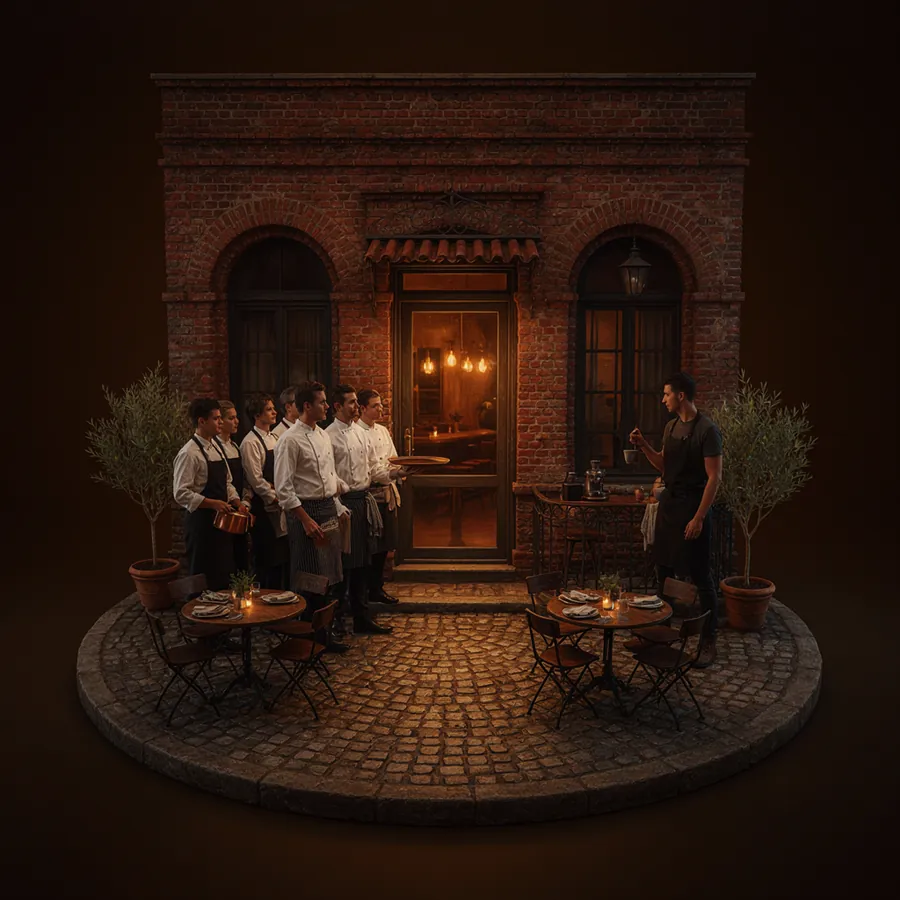
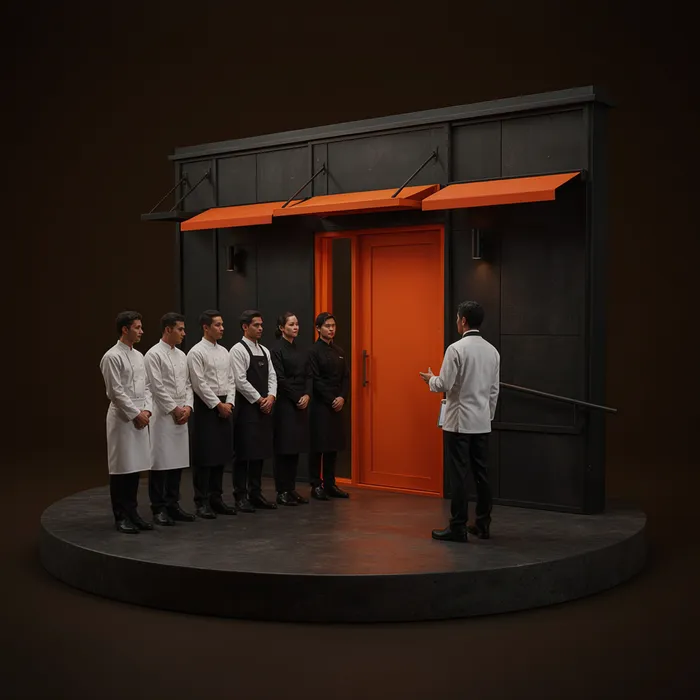
Фірмові мініатюри на сайті: етапи, формати й свій заклад

diff --git a/index.html b/index.html
@@ -24,7 +24,7 @@
 <link rel="preconnect" href="https://fonts.googleapis.com">
 <link rel="preconnect" href="https://fonts.gstatic.com" crossorigin>
 <link href="https://fonts.googleapis.com/css2?family=Unbounded:wght@500..800&family=Onest:wght@400..800&family=Marck+Script&display=swap" rel="stylesheet">
-<link rel="stylesheet" href="css/main.css?v=202611151837">
+<link rel="stylesheet" href="css/main.css?v=202611151911">
 <script type="importmap">
 { "imports": {
   "three": "https://cdn.jsdelivr.net/npm/three@0.160.0/build/three.module.js",
@@ -173,27 +173,27 @@
     </div>
     <ul class="formats-grid">
         <li><a class="fmt-card" href="#contact" data-format="Кафе або ресторан" data-intent="Цікавить формат: ресторан.">
-          <img src="assets/minis/restaurant.webp" alt="Ресторан: мініатюра закладу" width="640" height="640" loading="lazy" decoding="async">
+          <img src="assets/minis/restaurant.webp?v=3" alt="Ресторан: мініатюра закладу" width="640" height="640" loading="lazy" decoding="async">
           <b>Ресторан</b><span>Повна кухня, зал і бар</span><em class="fmt-cta">Обговорити ресторан</em>
         </a></li>
         <li><a class="fmt-card" href="#contact" data-format="Кав'ярня" data-intent="Цікавить формат: кав'ярня.">
-          <img src="assets/minis/coffee.webp" alt="Кав'ярня: мініатюра закладу" width="640" height="640" loading="lazy" decoding="async">
+          <img src="assets/minis/coffee.webp?v=2" alt="Кав'ярня: мініатюра закладу" width="640" height="640" loading="lazy" decoding="async">
           <b>Кав'ярня</b><span>Кава, десерти й сніданки</span><em class="fmt-cta">Обговорити кав'ярню</em>
         </a></li>
         <li><a class="fmt-card" href="#contact" data-format="Піцерія, суші чи бургерна" data-intent="Цікавить формат: піцерія.">
-          <img src="assets/minis/pizza.webp" alt="Піцерія: мініатюра закладу" width="640" height="640" loading="lazy" decoding="async">
+          <img src="assets/minis/pizza.webp?v=2" alt="Піцерія: мініатюра закладу" width="640" height="640" loading="lazy" decoding="async">
           <b>Піцерія</b><span>Піч, тісто й доставка</span><em class="fmt-cta">Обговорити піцерію</em>
         </a></li>
         <li><a class="fmt-card" href="#contact" data-format="Піцерія, суші чи бургерна" data-intent="Цікавить формат: бургерна.">
-          <img src="assets/minis/burger.webp" alt="Бургерна: мініатюра закладу" width="640" height="640" loading="lazy" decoding="async">
+          <img src="assets/minis/burger.webp?v=2" alt="Бургерна: мініатюра закладу" width="640" height="640" loading="lazy" decoding="async">
           <b>Бургерна</b><span>Гриль і швидка видача</span><em class="fmt-cta">Обговорити бургерну</em>
         </a></li>
         <li><a class="fmt-card" href="#contact" data-format="Стрітфуд або шаурма" data-intent="Цікавить формат: шаурма й стрітфуд.">
-          <img src="assets/minis/shawarma.webp" alt="Шаурма й стрітфуд: мініатюра закладу" width="640" height="640" loading="lazy" decoding="async">
+          <img src="assets/minis/shawarma.webp?v=2" alt="Шаурма й стрітфуд: мініатюра закладу" width="640" height="640" loading="lazy" decoding="async">
           <b>Шаурма й стрітфуд</b><span>Кіоск або острівець</span><em class="fmt-cta">Обговорити стрітфуд</em>
         </a></li>
         <li><a class="fmt-card" href="#contact" data-format="Пекарня чи кондитерська" data-intent="Цікавить формат: пекарня.">
-          <img src="assets/minis/bakery.webp" alt="Пекарня: мініатюра закладу" width="640" height="640" loading="lazy" decoding="async">
+          <img src="assets/minis/bakery.webp?v=2" alt="Пекарня: мініатюра закладу" width="640" height="640" loading="lazy" decoding="async">
           <b>Пекарня</b><span>Випічка й кондитерка</span><em class="fmt-cta">Обговорити пекарню</em>
         </a></li>
     </ul>
@@ -304,13 +304,13 @@
       </div>
       <div class="stages">
         <div class="stages-pics" id="stagePics">
-          <img src="assets/minis/stage-1.webp" alt="" width="900" height="900" class="is-on" decoding="async">
-          <img src="assets/minis/stage-2.webp" alt="" width="900" height="900" loading="lazy" decoding="async">
-          <img src="assets/minis/stage-3.webp" alt="" width="900" height="900" loading="lazy" decoding="async">
-          <img src="assets/minis/stage-4.webp" alt="" width="900" height="900" loading="lazy" decoding="async">
-          <img src="assets/minis/stage-5.webp" alt="" width="900" height="900" loading="lazy" decoding="async">
-          <img src="assets/minis/stage-6.webp" alt="" width="900" height="900" loading="lazy" decoding="async">
-          <img src="assets/minis/stage-7.webp" alt="" width="900" height="900" loading="lazy" decoding="async">
+          <img src="assets/minis/stage-1.webp?v=2" alt="" width="900" height="900" class="is-on" decoding="async">
+          <img src="assets/minis/stage-2.webp?v=2" alt="" width="900" height="900" loading="lazy" decoding="async">
+          <img src="assets/minis/stage-3.webp?v=2" alt="" width="900" height="900" loading="lazy" decoding="async">
+          <img src="assets/minis/stage-4.webp?v=2" alt="" width="900" height="900" loading="lazy" decoding="async">
+          <img src="assets/minis/stage-5.webp?v=2" alt="" width="900" height="900" loading="lazy" decoding="async">
+          <img src="assets/minis/stage-6.webp?v=2" alt="" width="900" height="900" loading="lazy" decoding="async">
+          <img src="assets/minis/stage-7.webp?v=2" alt="" width="900" height="900" loading="lazy" decoding="async">
         </div>
         <div class="stages-info">
           <ol class="stages-track" id="stageTrack">
@@ -338,7 +338,7 @@
     <div class="fr-card">
       <div class="fr-pics">
         <img class="fr-chain" src="assets/minis/franchise.webp" alt="Безлика точка франшизи з замком на дверях" width="800" height="800" loading="lazy" decoding="async">
-        <img class="fr-own" src="assets/minis/own.webp" alt="Власний затишний заклад з помаранчевими дверима" width="800" height="800" loading="lazy" decoding="async">
+        <img class="fr-own" src="assets/minis/own.webp?v=2" alt="Власний затишний заклад з помаранчевими дверима" width="800" height="800" loading="lazy" decoding="async">
       </div>
       <div class="fr-body">
         <h2 class="fr-title">Франшиза чи свій заклад?</h2>
@@ -565,6 +565,6 @@
 </main>
 
 <script src="https://cdn.jsdelivr.net/npm/lenis@1.1.13/dist/lenis.min.js"></script>
-<script type="module" src="js/main.js?v=202611151837"></script>
+<script type="module" src="js/main.js?v=202611151911"></script>
 </body>
 </html>

diff --git a/js/main.js b/js/main.js
@@ -1,13 +1,13 @@
-import { createHero } from './hero.js?v=202611151837';
-import { initAbout } from './about.js?v=202611151837';
-import { initProcess } from './process.js?v=202611151837';
-import { initCases } from './cases.js?v=202611151837';
-import { initPricing } from './pricing.js?v=202611151837';
-import { initOrder } from './order.js?v=202611151837';
-import { initAudience, initFormats, initFranchise } from './audience.js?v=202611151837';
-import { initFaq } from './faq.js?v=202611151837';
-import { initContact } from './contact.js?v=202611151837';
-import { initPlace } from './place.js?v=202611151837';
+import { createHero } from './hero.js?v=202611151911';
+import { initAbout } from './about.js?v=202611151911';
+import { initProcess } from './process.js?v=202611151911';
+import { initCases } from './cases.js?v=202611151911';
+import { initPricing } from './pricing.js?v=202611151911';
+import { initOrder } from './order.js?v=202611151911';
+import { initAudience, initFormats, initFranchise } from './audience.js?v=202611151911';
+import { initFaq } from './faq.js?v=202611151911';
+import { initContact } from './contact.js?v=202611151911';
+import { initPlace } from './place.js?v=202611151911';
 
 const $ = (s) => document.querySelector(s);
 const clamp = (v, a = 0, b = 1) => Math.min(b, Math.max(a, v));

diff --git a/css/main.css b/css/main.css
@@ -963,7 +963,7 @@ body.is-ready .scroll-hint { opacity: 1; }
 .formats-lead { max-width: 40ch; font-size: 17px; color: rgba(233, 223, 207, .68); }
 .formats-grid { list-style: none; max-width: 1280px; margin: 0 auto; display: grid; grid-template-columns: repeat(3, 1fr); gap: clamp(10px, 2vw, 32px) clamp(10px, 2vw, 28px); }
 .fmt-card { display: grid; justify-items: center; text-align: center; padding-bottom: 14px; border-radius: 22px; transition: background .4s; }
-.fmt-card img { width: 100%; height: auto; aspect-ratio: 1; object-fit: cover; transition: transform .7s var(--ease-out); }
+.fmt-card img { width: 100%; height: auto; aspect-ratio: 1; object-fit: cover; -webkit-mask: radial-gradient(closest-side, #000 72%, #0000); mask: radial-gradient(closest-side, #000 72%, #0000); transition: transform .7s var(--ease-out); }
 .fmt-card b { margin-top: -10px; font-size: clamp(18px, 1.6vw, 24px); font-weight: 800; letter-spacing: -.01em; }
 .fmt-card span { margin-top: 2px; font-size: 14.5px; color: rgba(233, 223, 207, .6); }
 .fmt-card:hover { background: rgba(255, 194, 122, .06); }

diff --git a/js/contact.js b/js/contact.js
@@ -1,5 +1,5 @@
-import { CONTACTS, FORM_ENDPOINT } from './config.js?v=202611151837';
-import { initPhone, phone } from './phone.js?v=202611151837';
+import { CONTACTS, FORM_ENDPOINT } from './config.js?v=202611151911';
+import { initPhone, phone } from './phone.js?v=202611151911';
 
 const esc = (v) => String(v || '').replace(/[&<>"']/g, (ch) => ({ '&': '&amp;', '<': '&lt;', '>': '&gt;', '"': '&quot;', "'": '&#39;' }[ch]));
 
